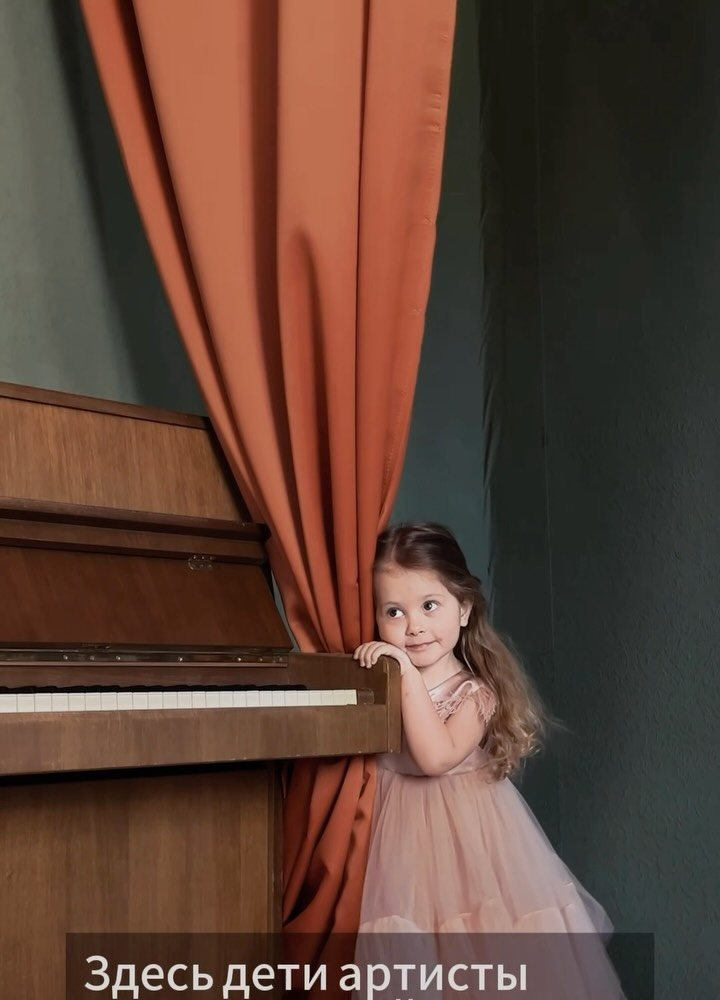
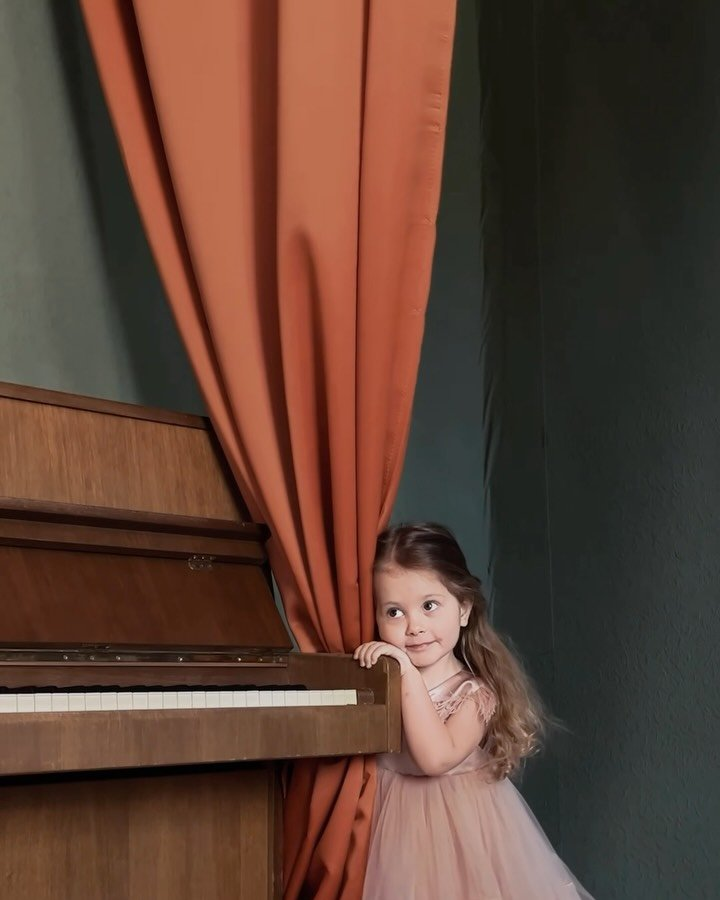
ArtSmart demo: whole photos in hero, faded into background
Claude-Session: https://claude.ai/code/session_01ALybUd3niLvE4JYEkRAd4d

diff --git a/demo/artsmart/index.html b/demo/artsmart/index.html
@@ -46,8 +46,11 @@ button{font-family:inherit}
 </header>
 
 <section style="position:relative;overflow:hidden;background:#FBF4E8">
-<div style="position:absolute;top:0;right:0;bottom:0;width:58%;background:url(img/hall-hero-full.jpg) center 13%/cover no-repeat"></div>
-<div style="position:absolute;top:0;right:0;bottom:0;width:58%;background:linear-gradient(90deg,#FBF4E8 0%,rgba(251,244,232,0.9) 12%,rgba(251,244,232,0.5) 30%,rgba(251,244,232,0) 58%),linear-gradient(180deg,#FBF4E8 0%,rgba(251,244,232,0) 14%)"></div>
+<div style="position:absolute;top:0;right:0;bottom:0;max-width:64%;display:flex;align-items:stretch;justify-content:flex-end;overflow:hidden">
+<img src="img/piano-girl.jpg" alt="Девочка у пианино в зале центра" style="display:block;height:100%;width:auto;-webkit-mask-image:linear-gradient(90deg,transparent 0,#000 42%);mask-image:linear-gradient(90deg,transparent 0,#000 42%)">
+<img src="img/hall-hero-full.jpg" alt="Главный зал центра: красные шторы, люстра, паркет" style="display:block;height:100%;width:auto;margin-left:-60px;-webkit-mask-image:linear-gradient(90deg,transparent 0,#000 22%);mask-image:linear-gradient(90deg,transparent 0,#000 22%)">
+<div style="position:absolute;left:0;right:0;top:0;height:16%;background:linear-gradient(180deg,#FBF4E8,rgba(251,244,232,0))"></div>
+</div>
 <div style="position:relative;max-width:1200px;margin:0 auto;padding:28px 32px 44px;display:flex;flex-wrap:wrap;align-items:center;gap:40px">
 <div style="flex:1 1 480px;min-width:0">
 <div style="display:inline-block;background:#F4D9C6;color:#6E131C;font-weight:800;font-size:14px;padding:6px 14px;border-radius:999px;margin-bottom:14px">Тбилиси · ул. Бурдзгла, 6</div>
